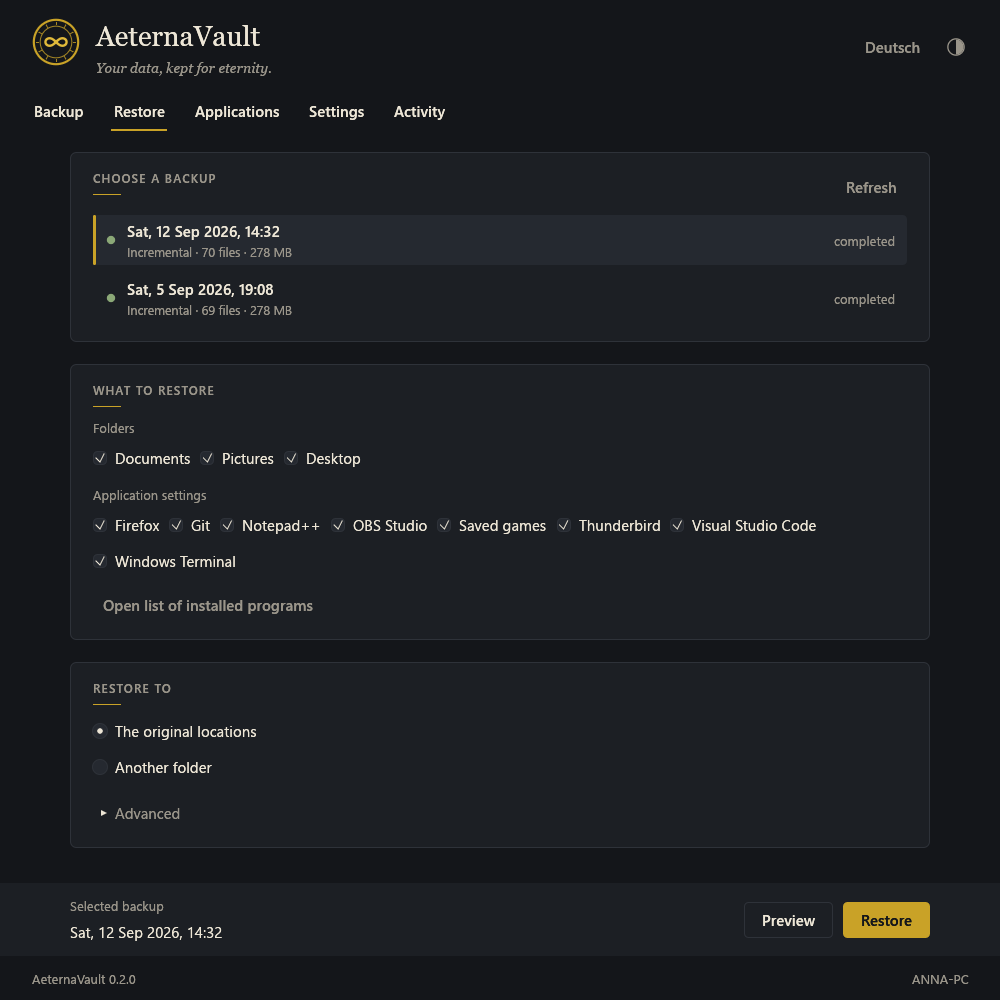
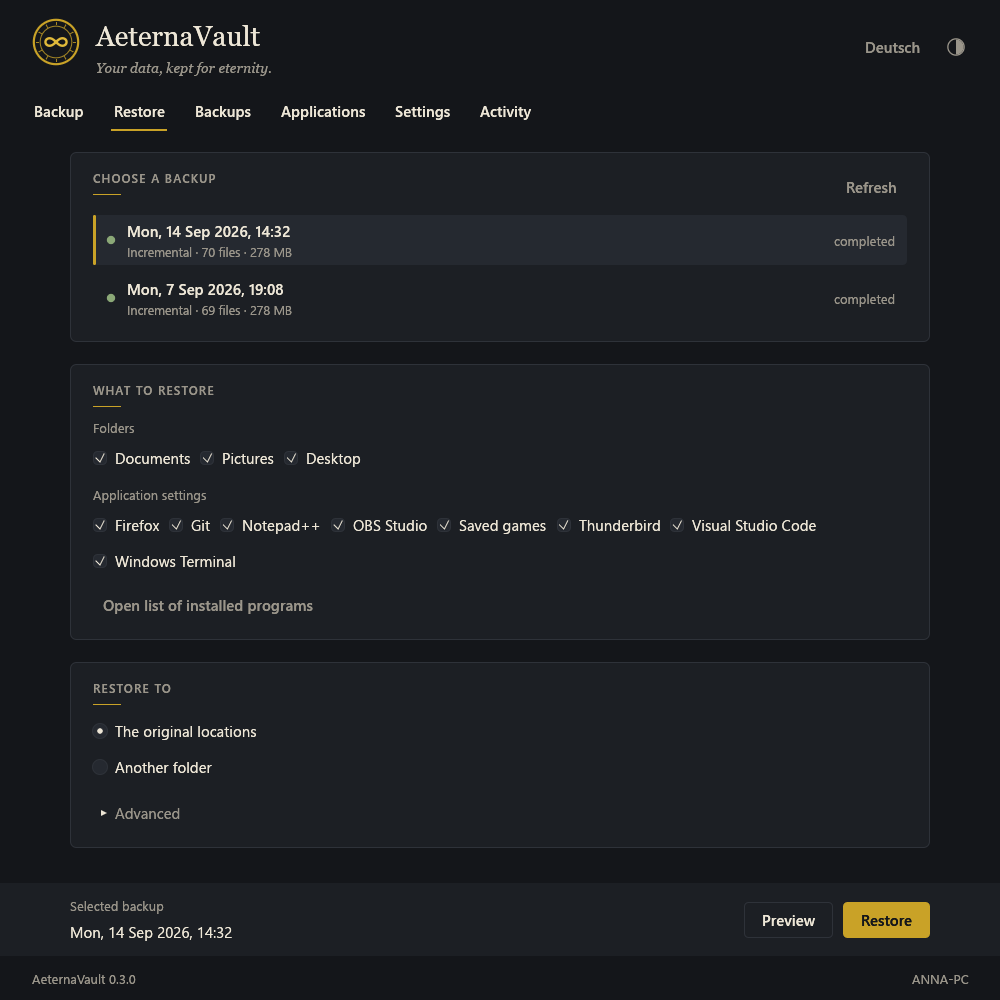
Refresh screenshots, add the Backups view to the README
The screenshot test also renders check images (full applications list,
recovery key dialog, schedule dialog) that are not committed.

diff --git a/src/gui/tests.rs b/src/gui/tests.rs
@@ -480,6 +480,42 @@ fn render_readme_screenshots() {
     settle(&mut h);
     save(&mut h, "restore");
 
+    // 4b. Backups view with one backup ticked.
+    let mut h = build(1000.0, &|config| config.language = LanguageSetting::En);
+    h.state_mut().view = View::Backups;
+    settle(&mut h);
+    if let Some(first) = h.state().all_snapshots().first().map(|s| s.qualified_id()) {
+        h.state_mut().manage.checked.insert(first);
+    }
+    settle(&mut h);
+    save(&mut h, "backups");
+
+    // Checks that are not part of the README (prefixed "check-").
+    let mut h = build(2600.0, &|config| config.language = LanguageSetting::En);
+    h.state_mut().view = View::Apps;
+    settle(&mut h);
+    wait_until(&mut h, "installed programs", |app| {
+        app.apps.installed.is_some()
+    });
+    settle(&mut h);
+    save(&mut h, "check-applications-full");
+
+    let mut h = build(800.0, &|config| config.language = LanguageSetting::De);
+    settle(&mut h);
+    h.state_mut().vault.dialog = Some(VaultDialog::ShowRecovery {
+        key: "K7QM-2HXA-9WTC-4RBN-P8ZE-6JDF-3VYS-1MQK".into(),
+        confirmed: false,
+        copied_at: None,
+    });
+    settle(&mut h);
+    save(&mut h, "check-recovery-dialog");
+
+    let mut h = build(900.0, &|config| config.language = LanguageSetting::De);
+    settle(&mut h);
+    h.state_mut().new_schedule();
+    settle(&mut h);
+    save(&mut h, "check-schedule-dialog");
+
     // 5. Encryption set-up dialog.
     let mut h = build(800.0, &|config| config.language = LanguageSetting::En);
     settle(&mut h);

diff --git a/README.md b/README.md
@@ -86,10 +86,12 @@ The interface speaks **English and German** and can be switched at any time.
     <td align="center"><sub>Choosing what to restore</sub></td>
   </tr>
   <tr>
-    <td colspan="2"><img src="docs/screenshots/overview-de-light.png" alt="Main window in light appearance with German interface"></td>
+    <td><img src="docs/screenshots/backups.png" alt="Backups view with check, browse, copy, move and delete actions and retention rules"></td>
+    <td><img src="docs/screenshots/overview-de-light.png" alt="Main window in light appearance with German interface"></td>
   </tr>
   <tr>
-    <td colspan="2" align="center"><sub>Light appearance, German interface</sub></td>
+    <td align="center"><sub>Managing backups</sub></td>
+    <td align="center"><sub>Light appearance, German interface</sub></td>
   </tr>
 </table>
 
